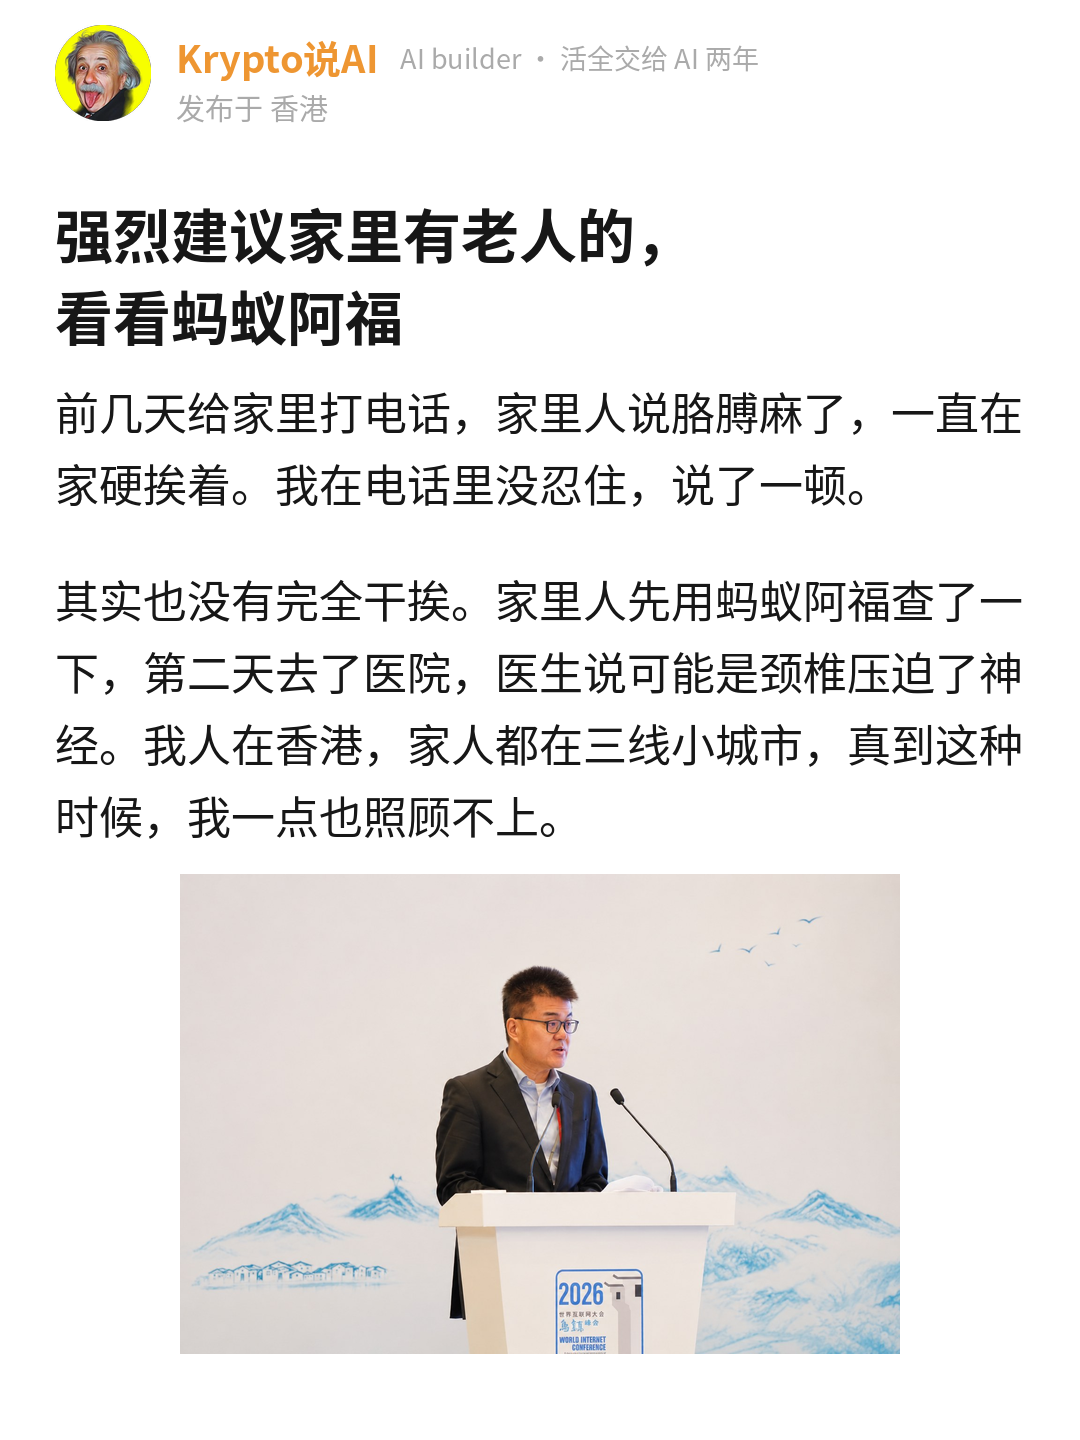
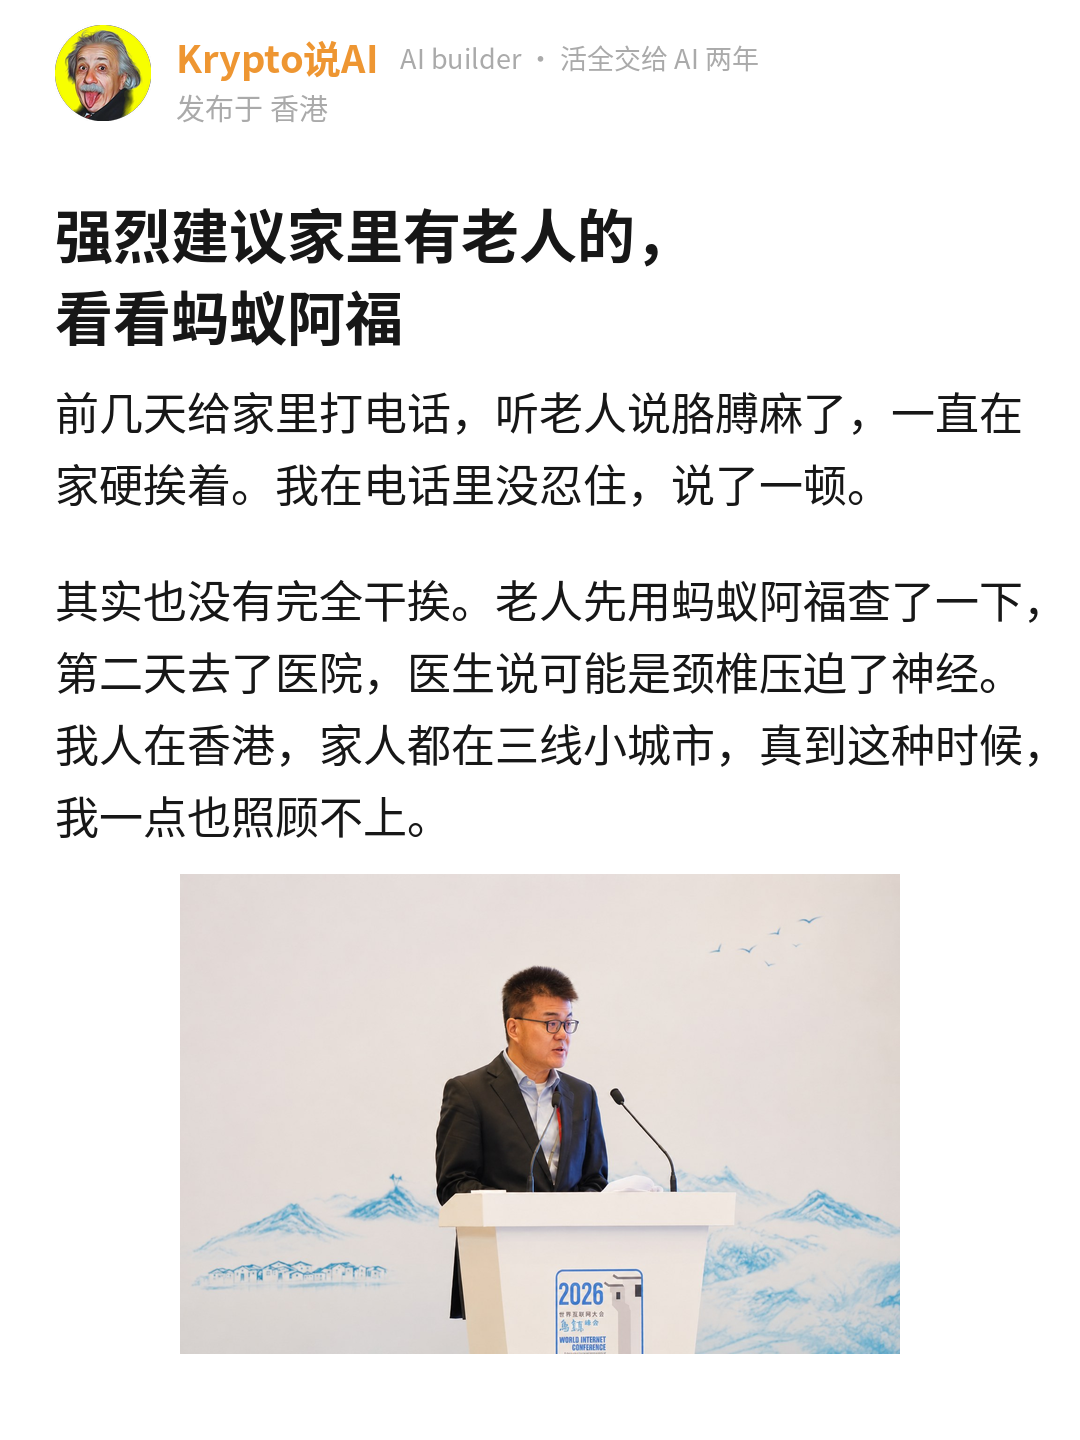
蚂蚁阿福稿：首页称呼换成老人 / 家人
Claude-Session: https://claude.ai/code/session_01NaeRTZQhhRGkfQC5bgkE17

Changed region(s): [[0.0306, 0.4062, 0.9472, 0.5938], [0.4583, 0.25, 0.55, 0.3125]]

diff --git a/发布/2026-11-04_ant-afu-wuzhen/meme-v2版/编辑用/draft.md b/发布/2026-11-04_ant-afu-wuzhen/meme-v2版/编辑用/draft.md
@@ -14,9 +14,9 @@ location: 香港
 account: Krypto说AI
 ---
 
-前几天给家里打电话，家里人说胳膊麻了，一直在家硬挨着。我在电话里没忍住，说了一顿。
+前几天给家里打电话，听老人说胳膊麻了，一直在家硬挨着。我在电话里没忍住，说了一顿。
 
-其实也没有完全干挨。家里人先用蚂蚁阿福查了一下，第二天去了医院，医生说可能是颈椎压迫了神经。我人在香港，家人都在三线小城市，真到这种时候，我一点也照顾不上。
+其实也没有完全干挨。老人先用蚂蚁阿福查了一下，第二天去了医院，医生说可能是颈椎压迫了神经。我人在香港，家人都在三线小城市，真到这种时候，我一点也照顾不上。
 
 今天在乌镇峰会上，蚂蚁集团资深副总裁周志峰讲医疗 AI 怎么治理，报的一组数字，说的就是我家这种情况。
 
@@ -50,6 +50,6 @@ account: Krypto说AI
 
 ![](brief_imgs/image3.jpg)
 
-对我家里人来说，on the loop 还是以后的事。眼下需要的，是半夜身体不舒服时有个地方能问，第二天还有医生能把那个回答再看一遍。
+对家里的长辈来说，on the loop 还是以后的事。眼下需要的，是半夜身体不舒服时有个地方能问，第二天还有医生能把那个回答再看一遍。
 
 我在香港够不着的那一段，至少有一部分，现在有人兜底了。
